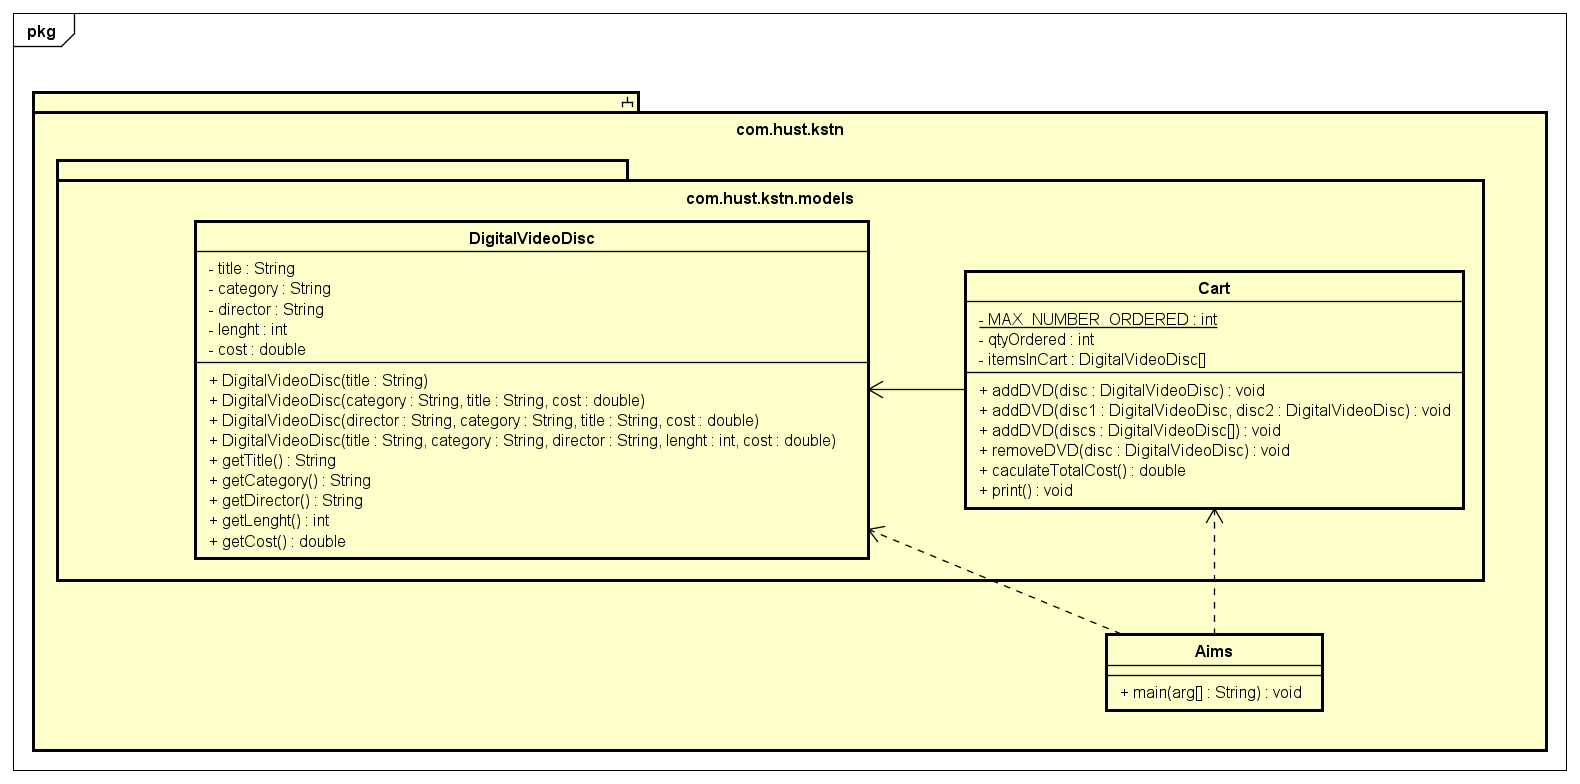
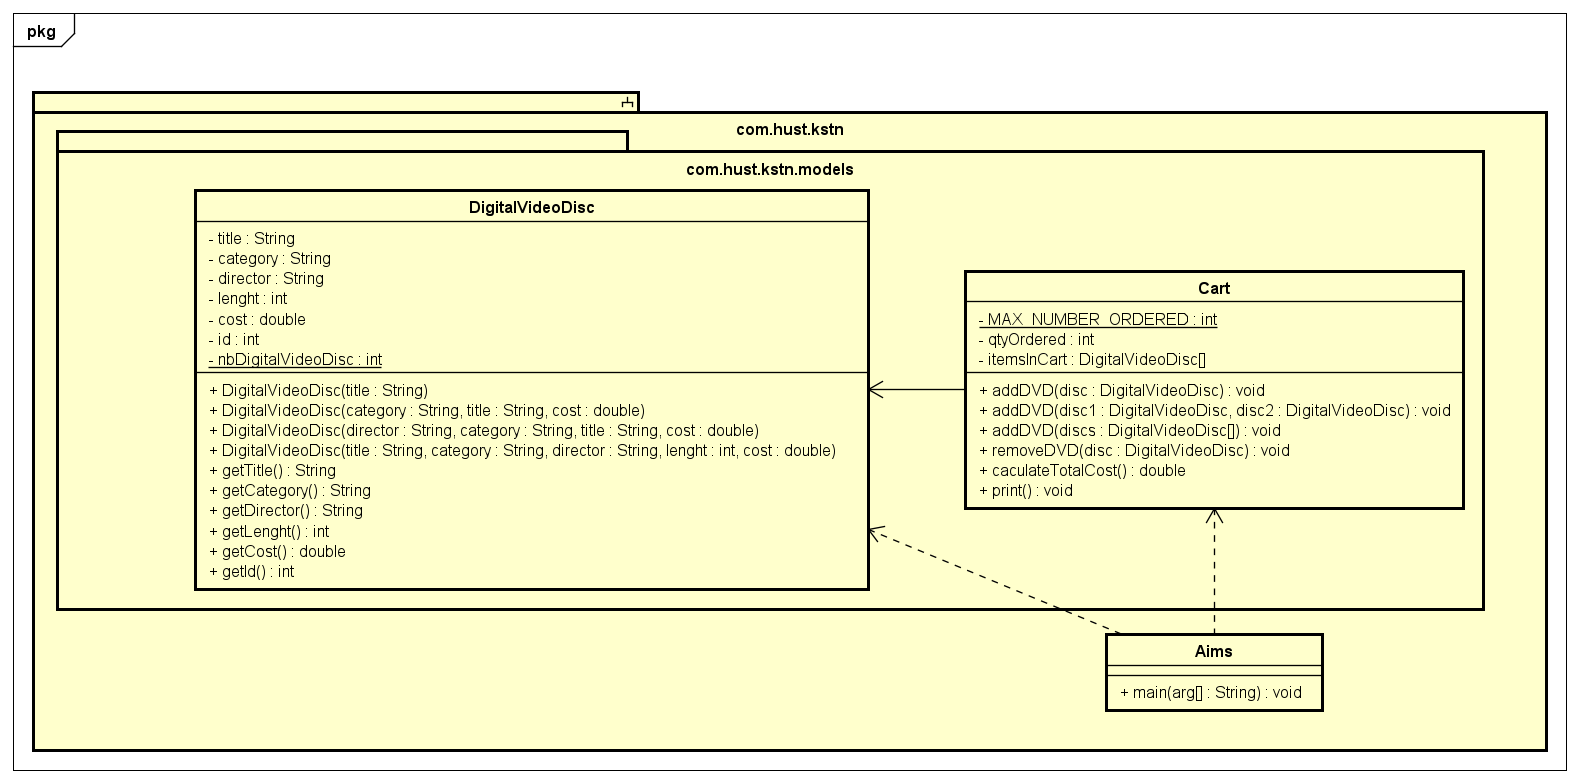
classifier-instance-member

Changed region(s): [[0.031, 0.1531, 0.9304, 0.7959]]

diff --git a/AimsProject/src/com/hust/kstn/models/DigitalVideoDisc.java b/AimsProject/src/com/hust/kstn/models/DigitalVideoDisc.java
@@ -6,20 +6,28 @@ public class DigitalVideoDisc {
 	private String director;
 	private int lenght;
 	private double cost;
+	private int id; 
+	private static int nbDigitalVideoDiscs = 0; 
 	
 	public DigitalVideoDisc (String title) {
 		this.title = title;
+		nbDigitalVideoDiscs ++;
+		this.id = nbDigitalVideoDiscs;
 	}
 	public DigitalVideoDisc (String category, String title, double cost) {
 		this.category = category;
 		this.title = title;
 		this.cost = cost;
+		nbDigitalVideoDiscs ++;
+		this.id = nbDigitalVideoDiscs;
 	}
 	public DigitalVideoDisc (String director, String category, String title, double cost) {
 		this.director = director;
 		this.category = category;
 		this.title = title;
 		this.cost = cost;
+		nbDigitalVideoDiscs ++;
+		this.id = nbDigitalVideoDiscs;
 	}
 	public DigitalVideoDisc (String title, String category, String director, int lenght, double cost) {
 		this.title = title;
@@ -27,6 +35,8 @@ public class DigitalVideoDisc {
 		this.director = director;
 		this.lenght = lenght;
 		this.cost = cost;
+		nbDigitalVideoDiscs ++;
+		this.id = nbDigitalVideoDiscs;
 	}
 	
 	public String getTitle() {
@@ -43,5 +53,8 @@ public class DigitalVideoDisc {
 	}
 	public double getCost() {
 		return cost;
+	}
+	public int getId() {
+		return id;
 	}
 }
